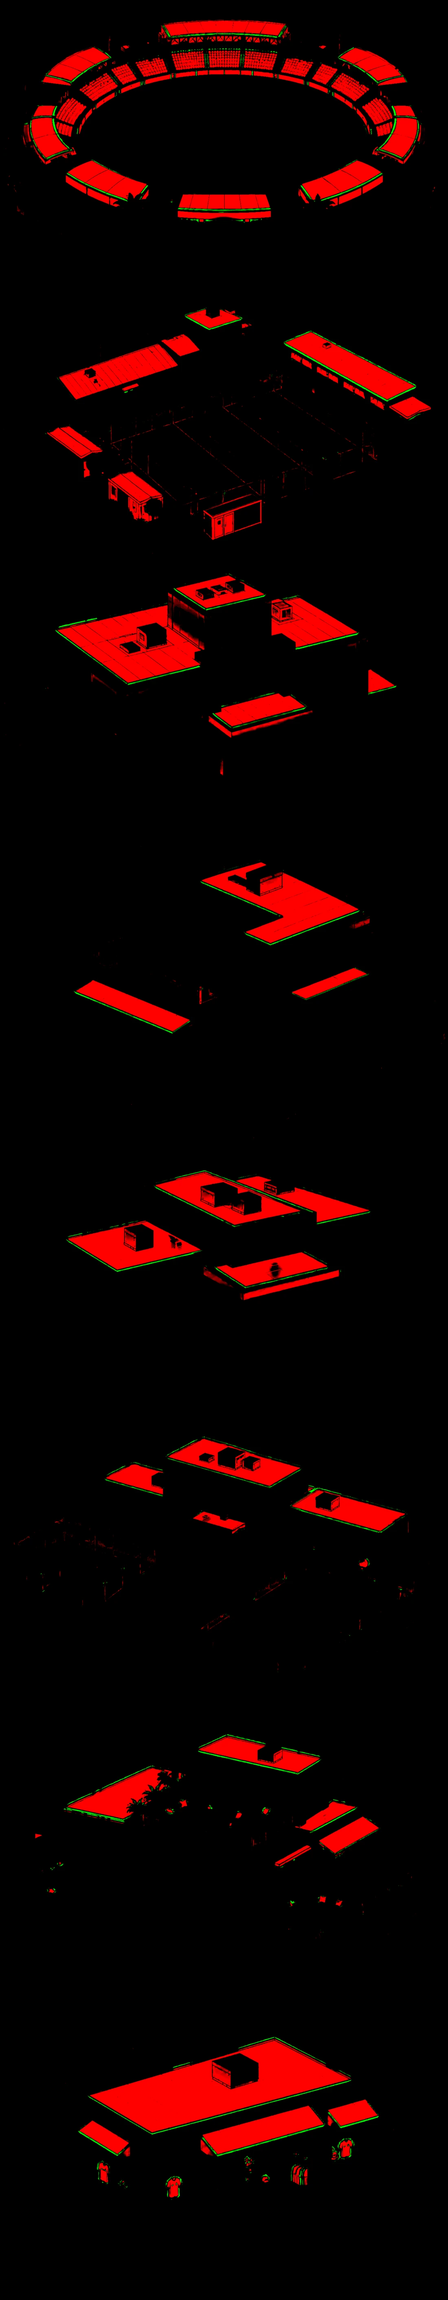
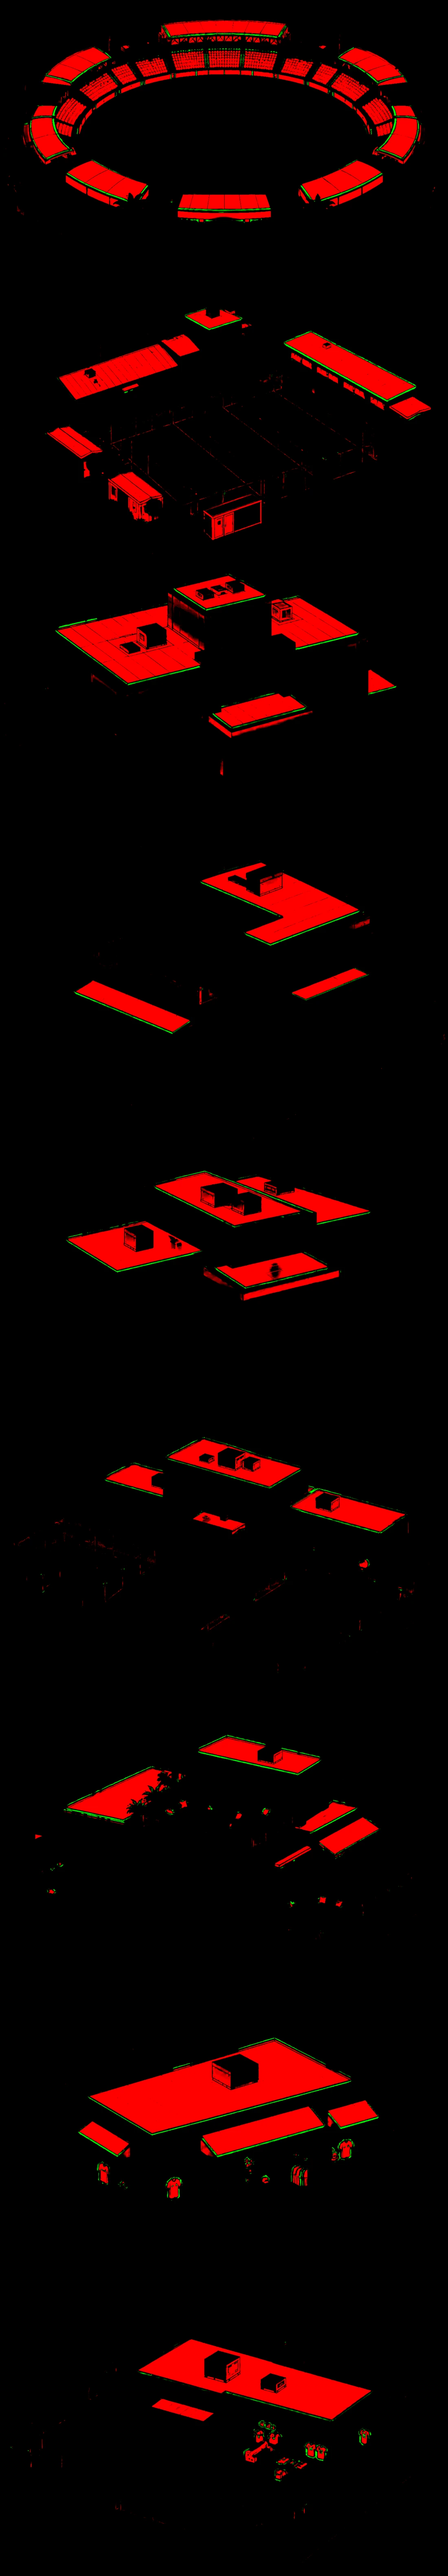
Club map: the merchandise factory on the last lawn (levels 2 and 3 pictures kept for later)
Claude-Session: https://claude.ai/code/session_01NK7tbrKg5PdA6fuyEUPXLd

diff --git a/js/clubmap.js b/js/clubmap.js
@@ -15,10 +15,11 @@ const SITES = {
   medical:  { x: 0.236, y: 0.569, w: 0.320 },
   clubhouse:{ x: 0.767, y: 0.582, w: 0.309 },
   shop:     { x: 0.231, y: 0.719, w: 0.341 },
+  merch:    { x: 0.750, y: 0.749, w: 0.313 },
 };
 const ORDER = Object.keys(SITES).sort((a, b) => SITES[a].y - SITES[b].y);   // far to near, the near ones painted over the far
 // where each building is in img/map/buildings.webp (and its tint in buildings-tint.webp): [row, height], all 1100 wide (tools/build_map.py)
-const ATLAS = {"stadium": [0, 681], "training": [681, 714], "office": [1395, 704], "apartment": [2099, 732], "medical": [2831, 660], "academy": [3491, 743], "clubhouse": [4234, 702], "shop": [4936, 709]};
+const ATLAS = {"stadium": [0, 681], "training": [681, 714], "office": [1395, 704], "apartment": [2099, 732], "medical": [2831, 660], "academy": [3491, 743], "clubhouse": [4234, 702], "shop": [4936, 709], "merch": [5645, 675]};
 const AW = 1100;
 const rgbOf = h => [1, 3, 5].map(i => parseInt(h.slice(i, i + 2), 16));
 const load = src => new Promise((res, rej) => { const im = new Image(); im.onload = () => res(im); im.onerror = rej; im.src = src; });

diff --git a/js/main.js b/js/main.js
@@ -1190,6 +1190,7 @@ const BUILDINGS = {
   apartment: { name: 'Your apartment', desc: 'Coming soon', soon: true },
   medical: { name: 'Medical centre', desc: 'Coming soon', soon: true },
   clubhouse: { name: 'Clubhouse', desc: 'Coming soon', soon: true },
+  merch: { name: 'Merchandise factory', desc: 'Coming soon', soon: true },
 };
 let mapPick = null;
 const clubMap = createClubMap($('mapCanvas'), {

diff --git a/tools/fit_map_sites.py b/tools/fit_map_sites.py
@@ -21,10 +21,10 @@ plots=[]
 for i,sl in enumerate(ndi.find_objects(lab),1):
     if (lab[sl]==i).sum()>40000:
         ys,xs=np.where(lab==i); plots.append(dict(cx=(xs.min()+xs.max())/2,cy=(ys.min()+ys.max())/2,x0=xs.min(),x1=xs.max(),y1=ys.max()))
-ATLAS={"stadium":[0,681],"training":[681,714],"office":[1395,704],"apartment":[2099,732],"medical":[2831,660],"academy":[3491,743],"clubhouse":[4234,702],"shop":[4936,709]}
+ATLAS={"stadium":[0,681],"training":[681,714],"office":[1395,704],"apartment":[2099,732],"medical":[2831,660],"academy":[3491,743],"clubhouse":[4234,702],"shop":[4936,709],"merch":[5645,675]}
 atlas=Image.open(R+'img/map/buildings.webp').convert('RGBA'); al=np.array(atlas)[...,3]
 def pick(fx,fy): return min(plots,key=lambda p:(p['cx']/W-fx)**2+(p['cy']/H-fy)**2)
-assign={'stadium':(.503,.444),'training':(.34,.195),'apartment':(.735,.245),'office':(.224,.334),'academy':(.812,.382),'medical':(.24,.584),'clubhouse':(.766,.594),'shop':(.239,.739)}
+assign={'stadium':(.503,.444),'training':(.34,.195),'apartment':(.735,.245),'office':(.224,.334),'academy':(.812,.382),'medical':(.24,.584),'clubhouse':(.766,.594),'shop':(.239,.739),'merch':(.749,.757)}
 out={}; canvas=Image.open(R+'img/map/base.webp').convert('RGBA').resize((W,H))
 for n,(fx,fy) in assign.items():
     p=pick(fx,fy); row,h=ATLAS[n]; m=al[row:row+h]>60

diff --git a/tools/build_map.py b/tools/build_map.py
@@ -17,8 +17,8 @@ from scipy import ndimage as ndi
 
 HERE = os.path.dirname(os.path.abspath(__file__))
 SRC, OUT = os.path.join(HERE, 'map'), os.path.join(HERE, '..', 'img', 'map')
-FLIP = ['apartment', 'academy', 'clubhouse']   # the buildings on the right of the road, turned to face it (their fronts look to the lower right as drawn)
-NAMES = ['stadium', 'training', 'office', 'apartment', 'medical', 'academy', 'clubhouse', 'shop']
+FLIP = ['apartment', 'academy', 'clubhouse', 'merch']   # the buildings on the right of the road, turned to face it (their fronts look to the lower right as drawn)
+NAMES = ['stadium', 'training', 'office', 'apartment', 'medical', 'academy', 'clubhouse', 'shop', 'merch']
 GREY = 0.7              # js/clubmap.js: the grey a club-coloured surface is made in
 BLUE_V, YEL_V = 0.84, 1.0   # the brightness (V) of the painted blue (#1f5fd6) and yellow (#ffd23f)
 WIDTH = 1100            # a building's width in the game (the pictures are 1448 wide; the map is seen at most about this big)
